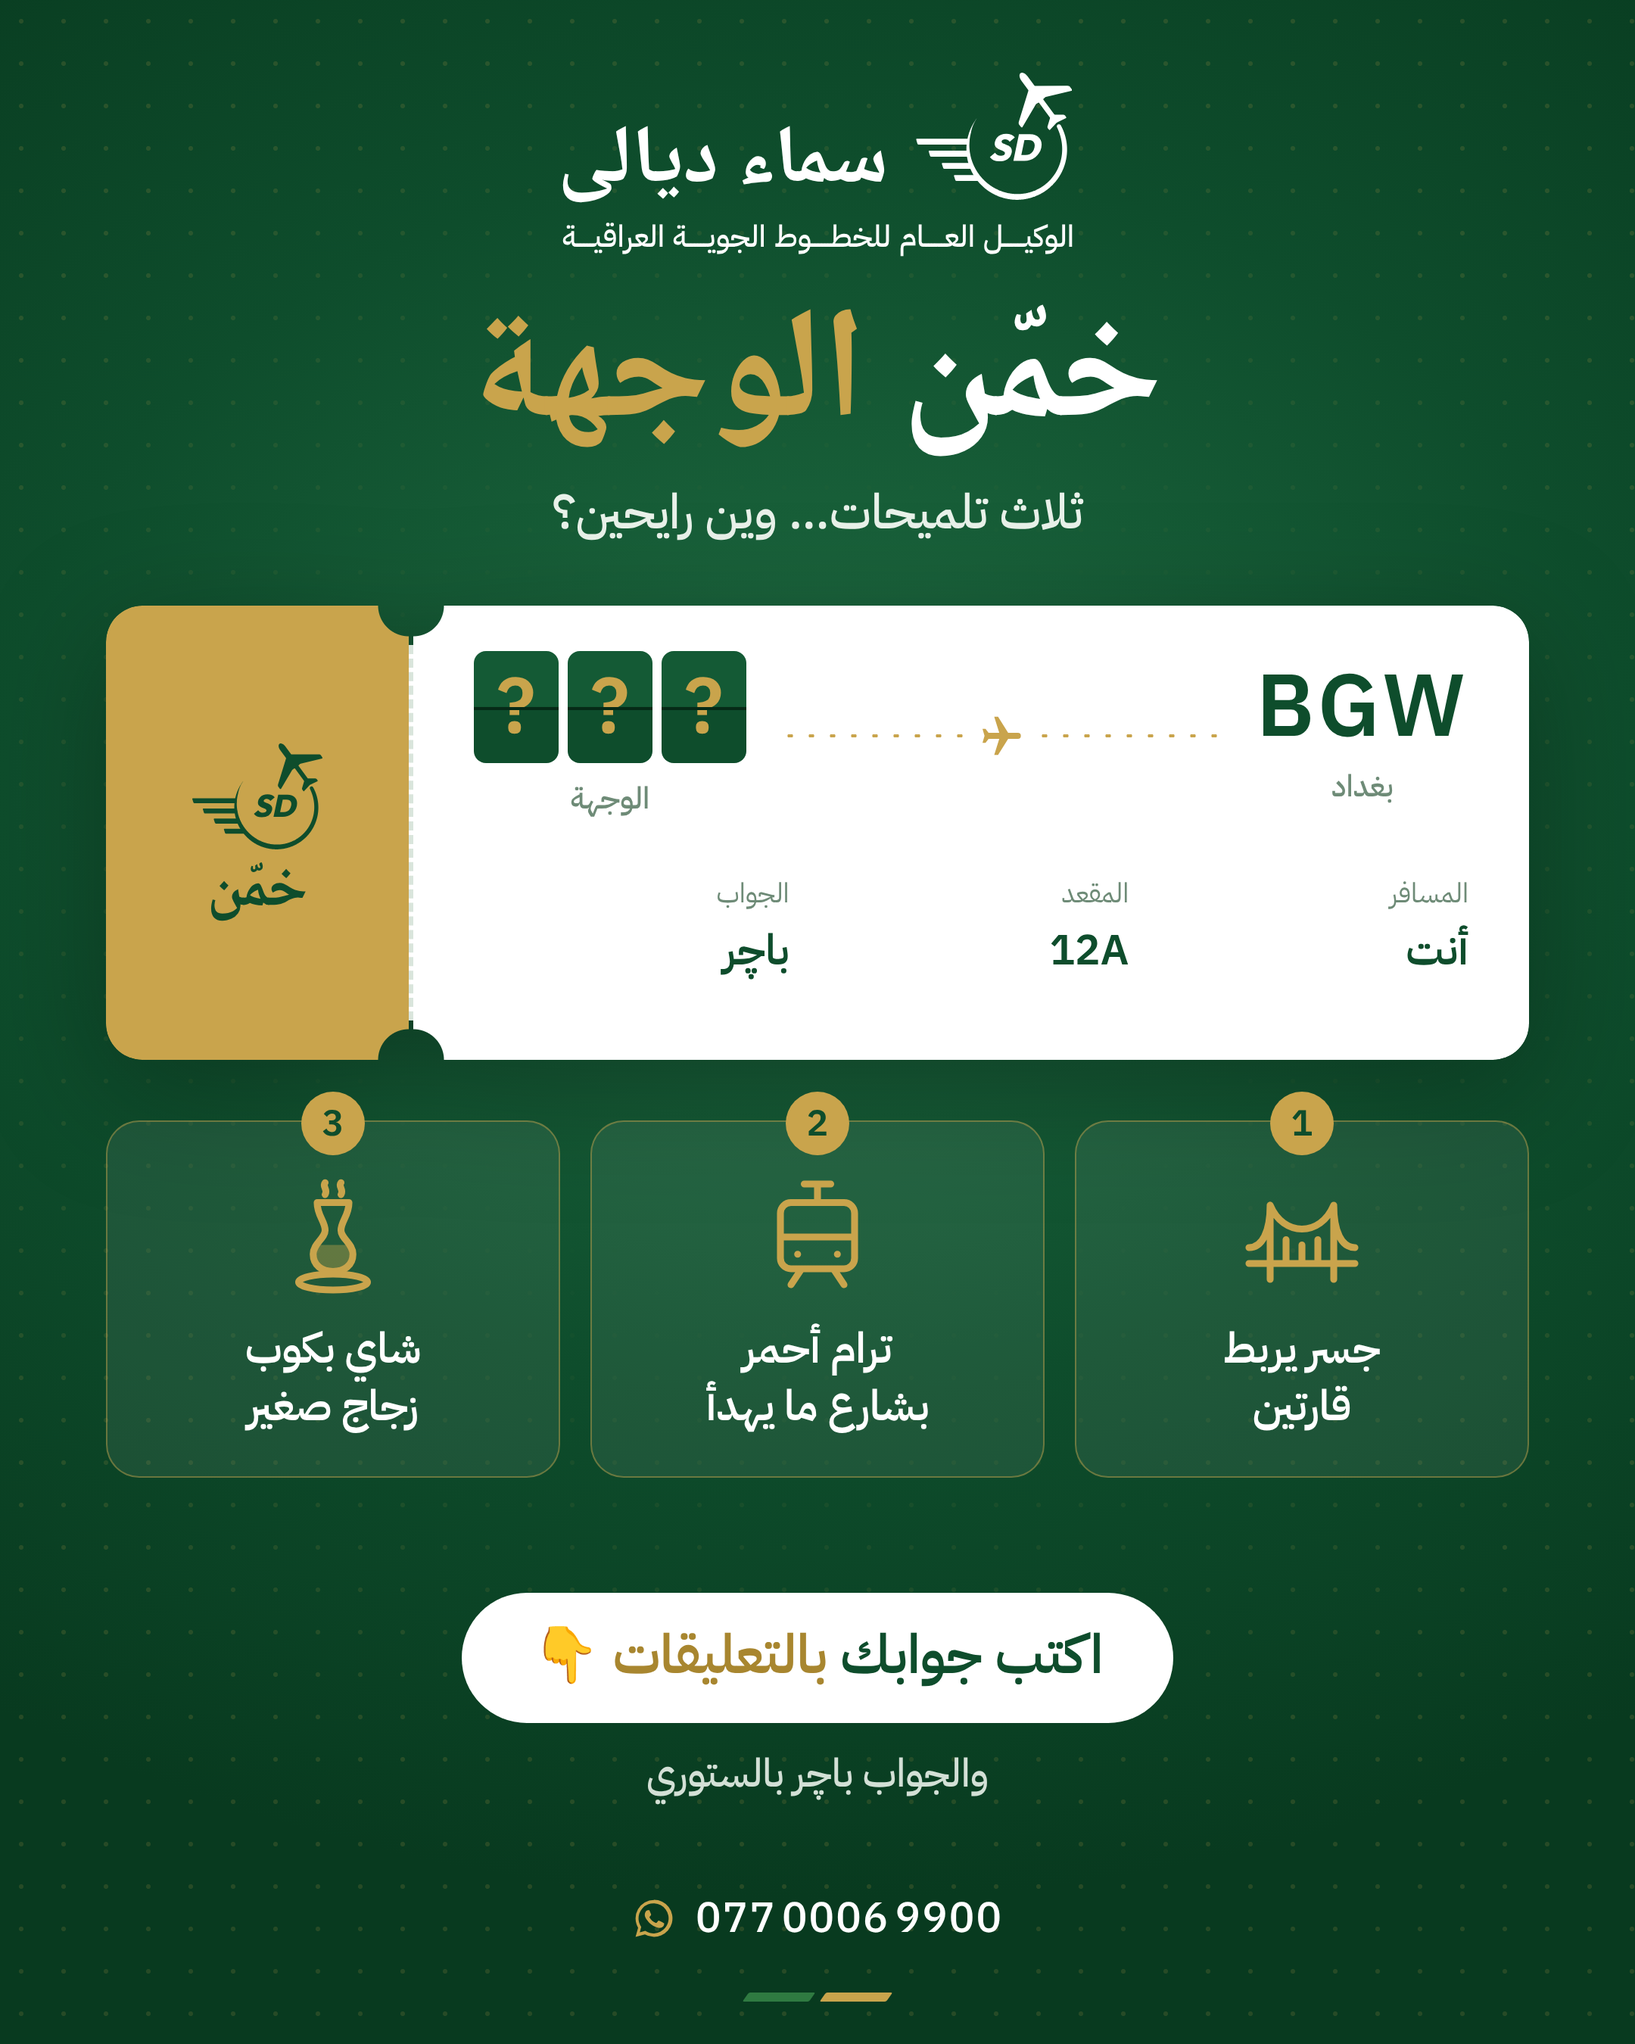
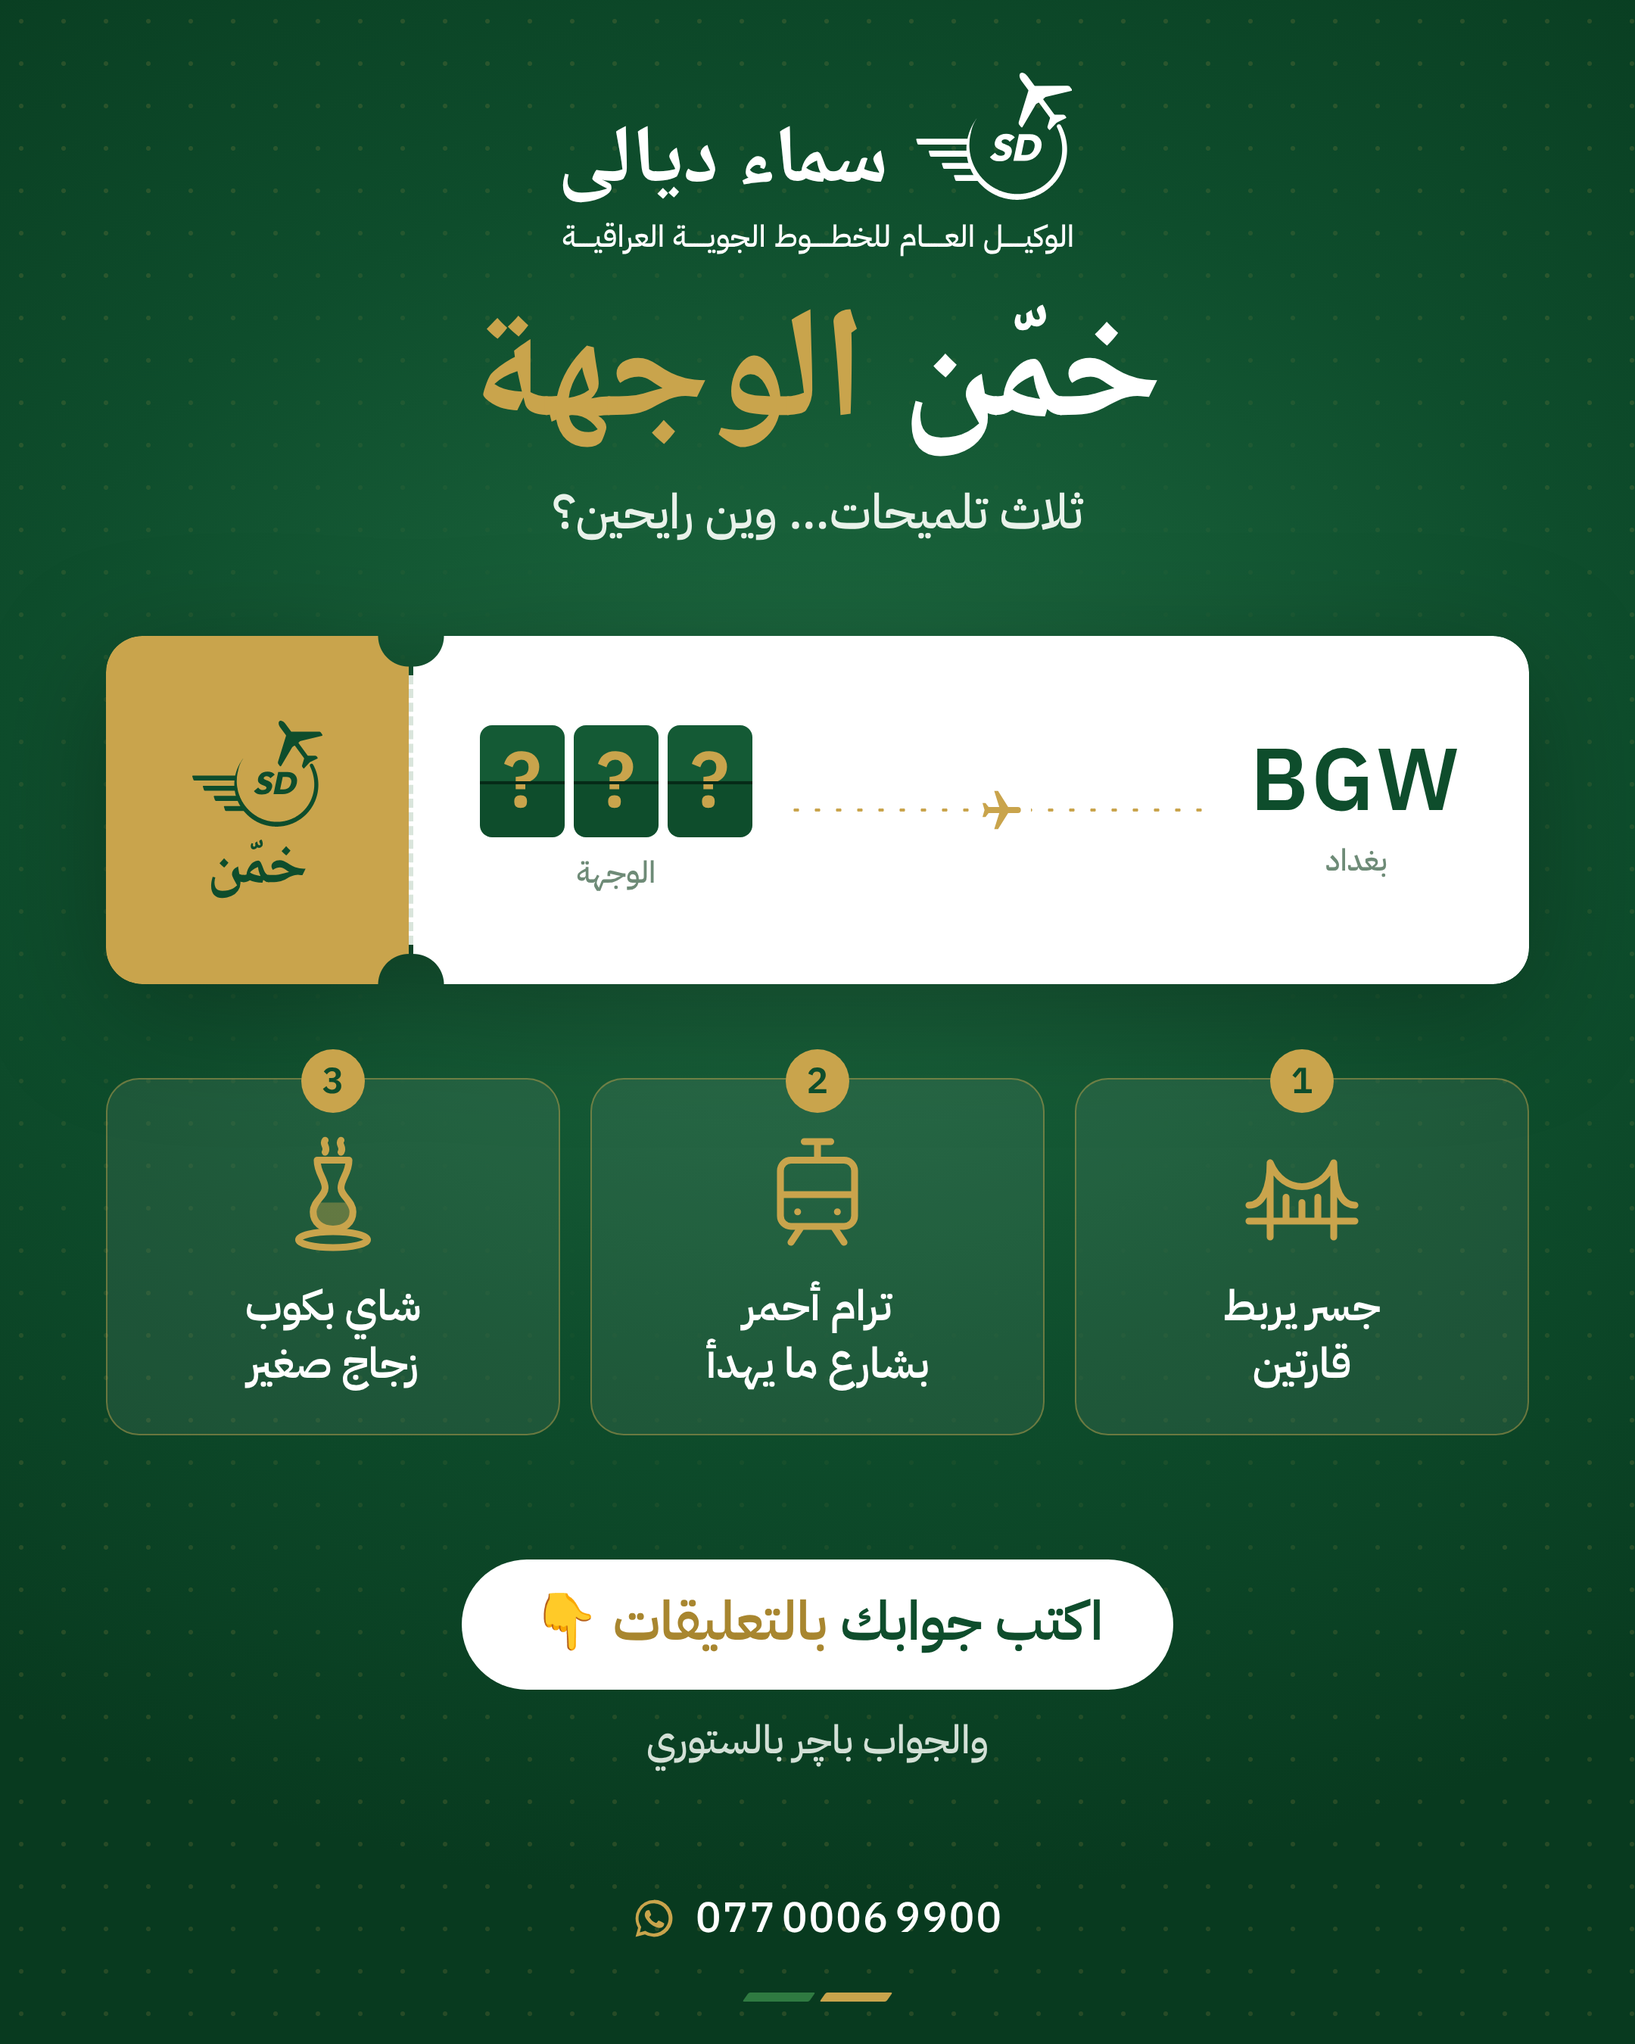
Guess-the-destination post: drop the passenger, seat and answer fields
Claude-Session: https://claude.ai/code/session_01EprWPUJDuKvYHn821imCPv

Changed region(s): [[0.062, 0.28, 0.9616, 0.7156], [0.2792, 0.7467, 0.7134, 0.9022], [0.5894, 0.3422, 0.6204, 0.4044]]

diff --git a/09-التصاميم/خمن الوجهة - 1/إعلان.html b/09-التصاميم/خمن الوجهة - 1/إعلان.html
@@ -28,8 +28,8 @@ html,body{width:1080px;height:1350px;overflow:hidden}
 .ttl h1{font-family:Naskh;font-weight:700;font-size:104px;line-height:1.1}
 .ttl h1 span{color:var(--gold)}
 .ttl p{font-family:Plex;font-weight:500;font-size:32px;color:#E9F2EA;margin-top:4px}
-.pass{position:absolute;left:70px;right:70px;top:400px;height:300px;display:flex;direction:rtl;filter:drop-shadow(0 20px 40px rgba(0,0,0,.3))}
-.pass .m{flex:1;background:#fff;color:var(--green);border-radius:0 24px 24px 0;padding:30px 40px;
+.pass{position:absolute;left:70px;right:70px;top:420px;height:230px;display:flex;direction:rtl;filter:drop-shadow(0 20px 40px rgba(0,0,0,.3))}
+.pass .m{flex:1;background:#fff;color:var(--green);border-radius:0 24px 24px 0;padding:0 44px;display:flex;flex-direction:column;justify-content:center;
   -webkit-mask:radial-gradient(circle at 0 0,transparent 20px,#000 20.5px) top/100% 51% no-repeat,radial-gradient(circle at 0 100%,transparent 20px,#000 20.5px) bottom/100% 51% no-repeat}
 .pass .s{width:200px;background:var(--gold);color:var(--green);border-radius:24px 0 0 24px;display:flex;flex-direction:column;align-items:center;justify-content:center;gap:8px;
   -webkit-mask:radial-gradient(circle at 100% 0,transparent 20px,#000 20.5px) top/100% 51% no-repeat,radial-gradient(circle at 100% 100%,transparent 20px,#000 20.5px) bottom/100% 51% no-repeat}
@@ -48,13 +48,13 @@ html,body{width:1080px;height:1350px;overflow:hidden}
 .fs{margin-top:34px;display:grid;grid-template-columns:repeat(3,1fr);gap:16px}
 .f .k{font-family:Plex;font-size:18px;color:#6E8B77;margin-bottom:4px}
 .f .v{font-family:Plex;font-weight:600;font-size:28px}
-.cds{position:absolute;left:70px;right:70px;top:740px;display:grid;grid-template-columns:repeat(3,1fr);gap:20px}
+.cds{position:absolute;left:70px;right:70px;top:712px;display:grid;grid-template-columns:repeat(3,1fr);gap:20px}
 .cd{position:relative;background:rgba(255,255,255,.07);border:1.5px solid rgba(201,164,76,.45);border-radius:22px;padding:34px 16px 26px;display:flex;flex-direction:column;align-items:center;text-align:center}
 .cd .no{position:absolute;top:-20px;right:50%;transform:translateX(50%);width:42px;height:42px;border-radius:50%;background:var(--gold);color:var(--green);
   font-family:Plex;font-weight:600;font-size:24px;display:flex;align-items:center;justify-content:center}
 .cd .ic{width:84px;height:84px;color:var(--gold)} .cd .ic svg{width:100%;height:100%}
 .ct2{margin-top:14px;font-family:Plex;font-weight:600;font-size:28px;line-height:1.35}
-.cta{position:absolute;left:0;right:0;top:1052px;text-align:center}
+.cta{position:absolute;left:0;right:0;top:1030px;text-align:center}
 .cta .b{display:inline-block;background:#fff;color:var(--green);border-radius:999px;padding:14px 46px 18px;font-family:Plex;font-weight:600;font-size:36px}
 .cta .b span{color:var(--dgold)}
 .cta p{margin-top:14px;font-family:Plex;font-weight:500;font-size:26px;color:#E9F2EA;opacity:.9}
@@ -69,7 +69,6 @@ html,body{width:1080px;height:1350px;overflow:hidden}
 <div class="ttl"><h1>خمّن <span>الوجهة</span></h1><p>ثلاث تلميحات… وين رايحين؟</p></div>
 <div class="pass"><div class="m">
  <div class="rt"><div class="p"><span class="c">BGW</span><span class="n">بغداد</span></div><div class="ln"><svg viewBox="0 0 24 24" fill="currentColor"><path d="M21.5 15.2v-1.9l-8-5V3.5a1.5 1.5 0 0 0-3 0v4.8l-8 5v1.9l8-2.5v5.3l-2 1.5V21l3.5-1 3.5 1v-1.5l-2-1.5v-5.3z" transform="rotate(-90 12 12)"/></svg></div><div class="p"><span class="fl"><i>?</i><i>?</i><i>?</i></span><span class="n">الوجهة</span></div></div>
- <div class="fs"><div class="f"><div class="k">المسافر</div><div class="v">أنت</div></div><div class="f"><div class="k">المقعد</div><div class="v" style="direction:ltr;text-align:right">12A</div></div><div class="f"><div class="k">الجواب</div><div class="v">باچر</div></div></div>
 </div><div class="cut"></div><div class="s"><img src="../../01-الشعار/أحادي بلا الاسم الصغير/الرمز - أخضر.svg" alt=""><b>خمّن</b></div></div>
 <div class="cds"><div class="cd"><span class="no">1</span><span class="ic"><svg viewBox="0 0 48 48" fill="none" stroke="currentColor" stroke-width="2.6" stroke-linecap="round" stroke-linejoin="round"><path d="M4 34h40M12 12v28M36 12v28M4 28c5 0 8-6 8-16M44 28c-5 0-8-6-8-16M12 12c5 12 19 12 24 0M18 34v-9M24 34v-7M30 34v-9"/></svg></span><div class="ct2">جسر يربط<br>قارتين</div></div><div class="cd"><span class="no">2</span><span class="ic"><svg viewBox="0 0 48 48" fill="none" stroke="currentColor" stroke-width="2.6" stroke-linecap="round" stroke-linejoin="round"><path d="M14 11h20a4 4 0 0 1 4 4v17a4 4 0 0 1-4 4H14a4 4 0 0 1-4-4V15a4 4 0 0 1 4-4zM10 24h28M18 36l-4 6M30 36l4 6M19 4h10M24 4v7M16.5 30.5h.01M31.5 30.5h.01"/></svg></span><div class="ct2">ترام أحمر<br>بشارع ما يهدأ</div></div><div class="cd"><span class="no">3</span><span class="ic"><svg viewBox="0 0 48 48" fill="none" stroke="currentColor" stroke-width="2.6" stroke-linecap="round" stroke-linejoin="round"><path d="M17.6 27h12.8c.6 1.2.9 2.3.9 3.2 0 4-3.3 6.3-7.3 6.3s-7.3-2.3-7.3-6.3c0-.9.3-2 .9-3.2z" fill="currentColor" fill-opacity=".4" stroke="none"/><path d="M18 11h12c0 5-3 7-3 10.5 0 3 4.5 5 4.5 9 0 4.2-3.3 6.5-7.5 6.5s-7.5-2.3-7.5-6.5c0-4 4.5-6 4.5-9 0-3.5-3-5.5-3-10.5z"/><ellipse cx="24" cy="41" rx="13" ry="3"/><path d="M21 3.5c-1.2 1.5 1.2 2.5 0 4.5M27 3.5c-1.2 1.5 1.2 2.5 0 4.5"/></svg></span><div class="ct2">شاي بكوب<br>زجاج صغير</div></div></div>
 <div class="cta"><div class="b">اكتب جوابك <span>بالتعليقات</span> 👇</div><p>والجواب باچر بالستوري</p></div>

diff --git a/CLAUDE.md b/CLAUDE.md
@@ -104,7 +104,7 @@
 - الشركة تبيع التذاكر لمكاتب السفر الأخرى، والموظفون يرسلون لها منشورات "يمكنكم الإصدار الآن". النموذج المعتمد بهويتنا: `09-التصاميم/عمولة الإصدار للمكاتب/` (من قالب الثقة): "صباح الخير" بالذهبي، "يمكنكم الإصدار الآن"، "تذاكر الخطوط الجوية العراقية"، "بعمولة 6.5%"، وصورة طائرة العراقية، وبطاقة فيها رقم الإصدار والبريد. لا تُكتب "إلى مكاتب السفر والسياحة" في النسختين. تتغير نسبة العمولة من القالب مباشرة. ونسخة ثانية بأسلوب "النافذة" (طائرة العراقية YI-ASU تخرج من نافذة طائرة فيها سماء بغيوم، ثم "صباح الخير" بالذهبي، والنص في صناديق، بلا "إلى مكاتب السفر والسياحة"، ومسافة واضحة بين سطر الوكيل والنافذة): `09-التصاميم/عمولة الإصدار - النافذة/`. صورة الطائرة المفرغة `08-الصور/طائرة العراقية YI-ASU (مفرغة).png` (من صورة بسماء زرقاء أرسلها إحسان) تصلح لتصاميم أخرى، وصورة الغيوم `08-الصور/سماء بغيوم (عمودية).jpg`. الغيوم خارج النافذة رسوم ضبابية بيضاء لا صور مقصوصة. ونسخة ثالثة "فاتح" بأخضر أقل: `09-التصاميم/عمولة الإصدار - فاتح/`، خلفية بيضاء، والترويسة والعناوين بالأخضر، والطائرة المفرغة كبيرة أمام دائرة فاتحة بخط ذهبي ومسار منقّط، والعمولة في بطاقة صعود ذهبية كعبها أخضر فيه الرمز الأبيض. ونسخة رابعة "الحركة": `09-التصاميم/عمولة الإصدار - الحركة/`، مقدمة طائرة YI-ASU فقط تدخل من اليسار والباقي خارج التصميم، بضبابية حركة تزداد نحو الذيل وخطوط سرعة ذهبية وخضراء بزاوية الطائرة (13.4°)، والنص والبطاقة تحتها كما في النسخة الفاتحة. ونسخة خامسة "المقدمة": `09-التصاميم/عمولة الإصدار - المقدمة/`، مقدمة طائرة 777 (من `08-الصور/طائرة العراقية (الأصل).jpg`) تدخل من اليمين بلا تأثير حركة، مقصوصة بحواف مرسومة بدقة (`08-الصور/طائرة العراقية 777 - المقدمة (مفرغة، مكبّرة 3x).png`، والأداة `07-أدوات/قص مقدمة الطائرة 777.py`). رفض إحسان YI-ASJ لضعف جودتها، وقصّ YI-ASU لأن حوافه فيها هالة زرقاء وأثر تحديد، فلا يُستخدم قصّ YI-ASU المكبّر في المقدمات القريبة. وأربعة نماذج أخرى يولّدها `09-التصاميم/عمولة الإصدار - خمسة نماذج/build.py` (نسبة العمولة في متغير COMMISSION أعلاه): المكتب (صورة المكتب الحقيقية بجدار العراقية)، والرقم الكبير، ولوحة المغادرة (أرقام قلّابة)، والشروق (شمس ذهبية خلف الطائرة). نموذج "بطاقة الصعود من SD إلى مكتبكم" حذفه إحسان، فلا يُعاد. عند التصدير بحلقة bash يُحذف الشرطة المائلة الأخيرة من المسار، لأن "//" تكسر المسارات النسبية في Chromium.
 
 ## منشورات التفاعل
-- سلسلة "خمّن الوجهة" (من 23 تشرين الثاني 2026): بطاقة صعود BGW ← ؟؟؟ بأرقام قلّابة، وثلاث بطاقات تلميحات بأيقونات ذهبية، و"اكتب جوابك بالتعليقات"، والجواب في ستوري اليوم التالي مع عرض الوجهة إن وُجد. الحلقة الأولى إسطنبول (جسر يربط قارتين، ترام أحمر، شاي بكوب زجاج): `09-التصاميم/خمن الوجهة - 1/`. لا يُكتب اسم الوجهة في النص ولا الهاشتاغات.
+- سلسلة "خمّن الوجهة" (من 23 تشرين الثاني 2026): بطاقة صعود BGW ← ؟؟؟ بأرقام قلّابة (بلا خانات المسافر والمقعد والجواب)، وثلاث بطاقات تلميحات بأيقونات ذهبية، و"اكتب جوابك بالتعليقات"، والجواب في ستوري اليوم التالي مع عرض الوجهة إن وُجد. الحلقة الأولى إسطنبول (جسر يربط قارتين، ترام أحمر، شاي بكوب زجاج): `09-التصاميم/خمن الوجهة - 1/`. لا يُكتب اسم الوجهة في النص ولا الهاشتاغات.
 
 ## قواعد ثابتة لكل التصاميم
 - السعر كاملاً بصيغة "725,000 د.ع".
